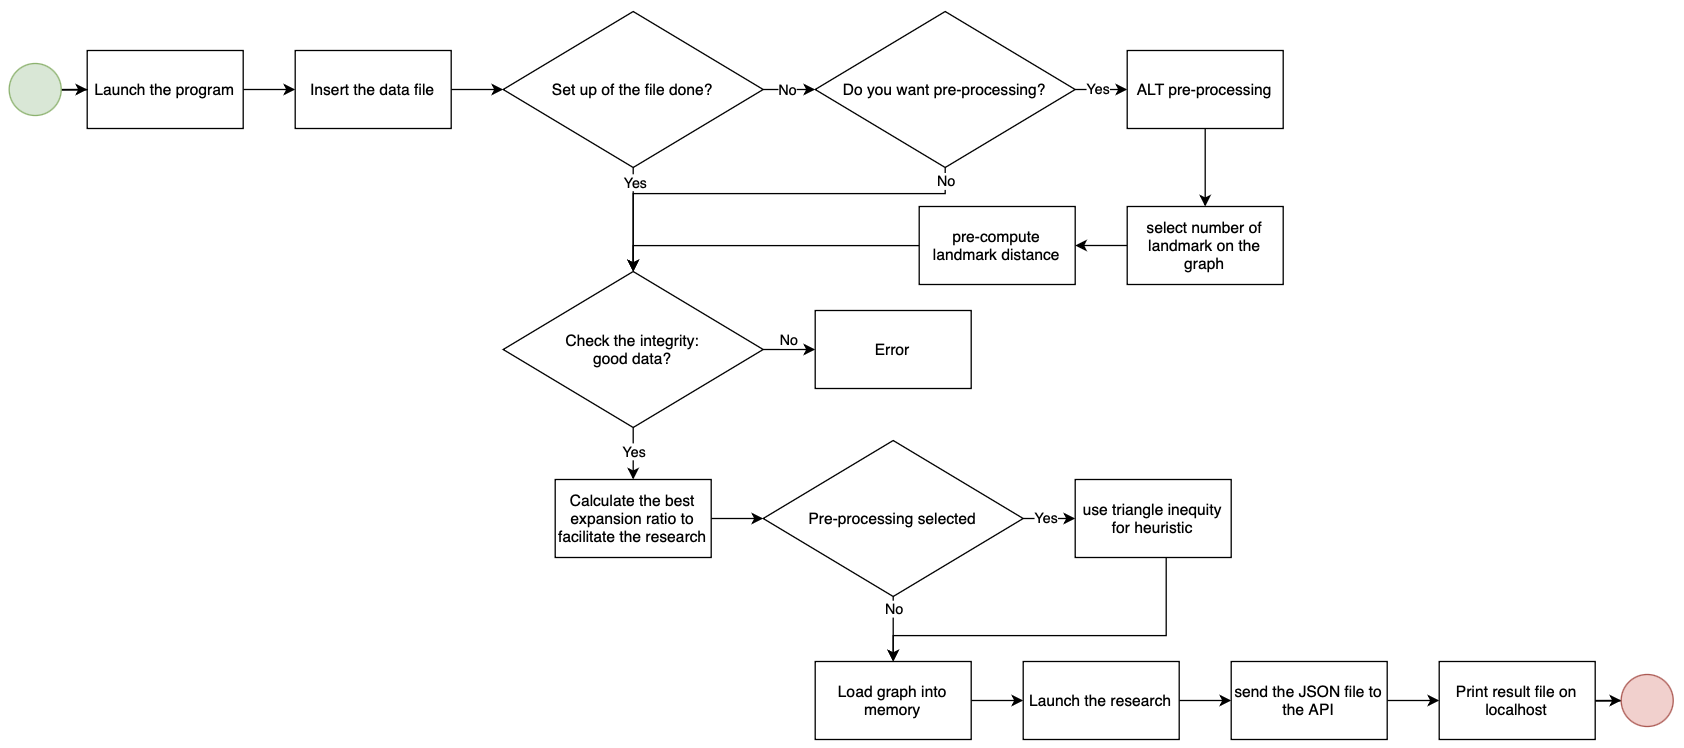
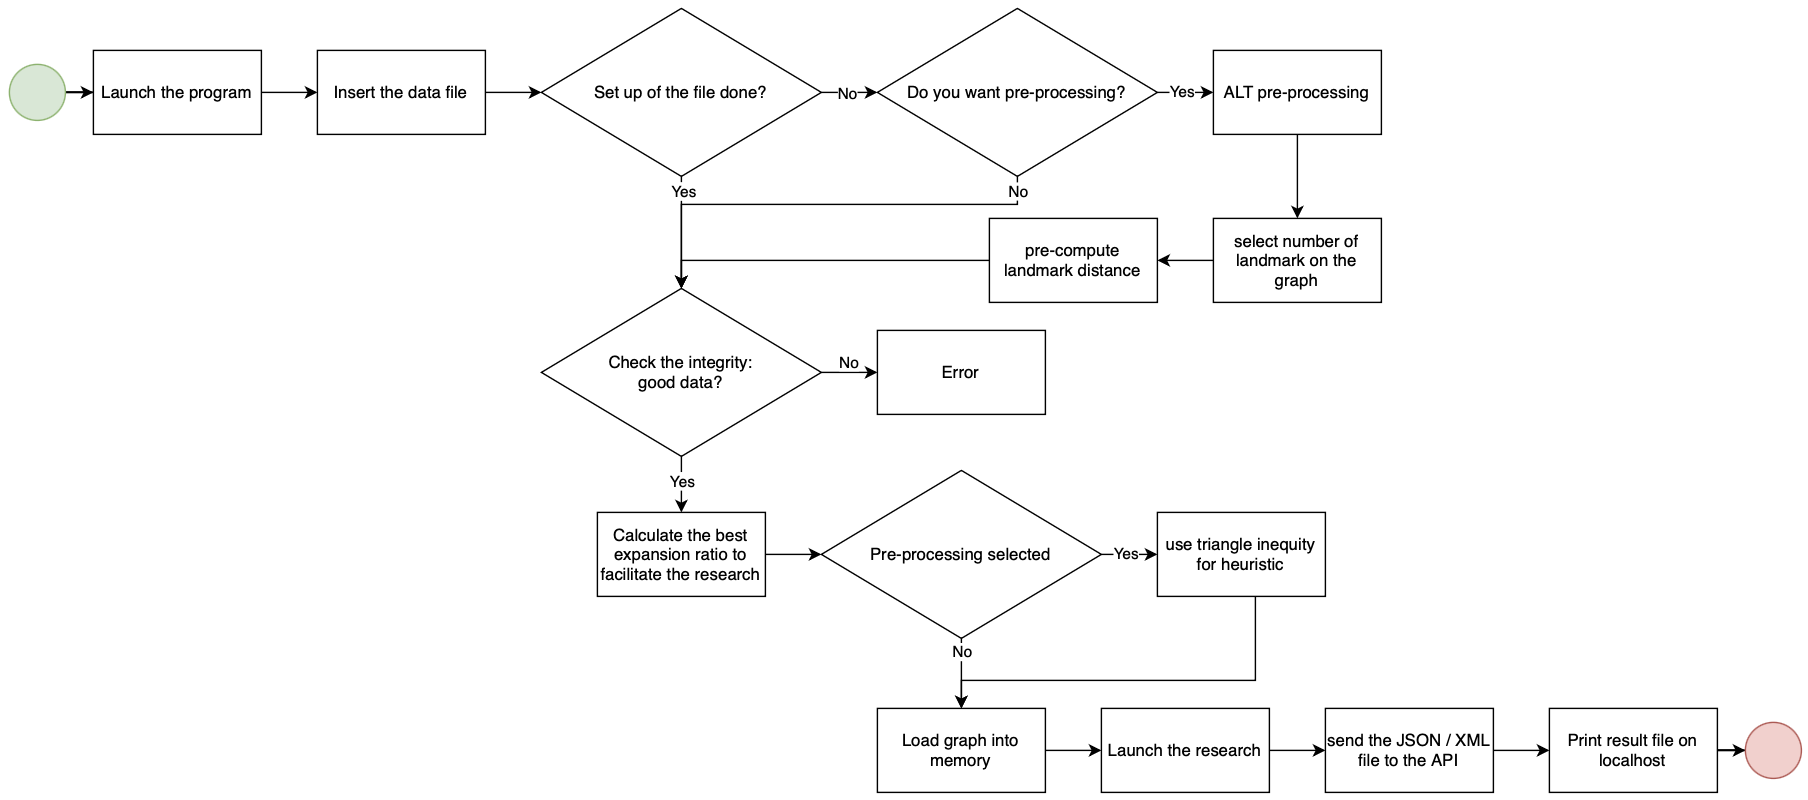
update technical
add information + correction issue #19

diff --git a/documents/TechnicalSpecifications.md b/documents/TechnicalSpecifications.md
@@ -11,21 +11,23 @@
     - [B. History](#b-history)
     - [C. Overview](#c-overview)
   - [II. Solution](#ii-solution)
-    - [A. Description](#a-description)
+    - [A. Requirements](#a-requirements)
+    - [B. Description](#b-description)
       - [1. Architectural Components](#1-architectural-components)
         - [a. Documents](#a-documents)
         - [b. API](#b-api)
         - [c. Data Management](#c-data-management)
+        - [d. Complexity](#d-complexity)
       - [2. Workflow Example](#2-workflow-example)
       - [3. Technology Stack](#3-technology-stack)
-    - [B. How it works ?](#b-how-it-works-)
+    - [C. How it works ?](#c-how-it-works-)
       - [1. Includes](#1-includes)
       - [2. Integrity checking](#2-integrity-checking)
       - [3. Connectivity checking](#3-connectivity-checking)
       - [4. Graph](#4-graph)
       - [5. Research algorithm](#5-research-algorithm)
       - [6. API](#6-api)
-    - [C. Program architecture diagram](#c-program-architecture-diagram)
+    - [D. Program architecture diagram](#d-program-architecture-diagram)
   - [III. Quality Control](#iii-quality-control)
     - [A. Documentation and Reporting](#a-documentation-and-reporting)
     - [B. Development](#b-development)
@@ -33,6 +35,7 @@
     - [A. Technical constraints](#a-technical-constraints)
       - [1. Writing convention](#1-writing-convention)
       - [2. C++ coding convention](#2-c-coding-convention)
+      - [3. Hardware](#3-hardware)
     - [B. Cost estimation](#b-cost-estimation)
       - [1. Software](#1-software)
       - [2. Time \& Human](#2-time--human)
@@ -50,35 +53,47 @@
 ### A. Information
 
 | Document writer | Grégory PAGNOUX |
-|---|---|
+|-|-|
 | Issue date | 01/27/2025 |
 | Reviewer | Lucas MEGNAN |
-| review date | 01/20/2025 |
+| review date | 01/21/2025 |
 
 ### B. History
 
 | Version | Edits completed by | Date | Description of edit |
-|---|---|---|---|
+|:-:|---|---|---|
 | 1.1 | Grégory PAGNOUX | 01/06/2025 | Template, [Writing convention](#1-writing-convention), [Quality Control](#iii-quality-control) part A, [Success evaluation](#v-success-evaluation) |
 | 1.2 | Grégory PAGNOUX | 01/08/2025 | [Development](#b-development), [Software](#1-software), [Time & human](#2-time--human), [Overview](#c-overview), [Documents](#a-documents) |
 | 1.3 | Grégory PAGNOUX | 01/14/2025 | [Coding convention](#2-c-coding-convention) |
-| 1.4 | Grégory PAGNOUX | 01/16/2025 | [Description](#a-description), [Security](#c-security), [Accessibility](#d-accessibility), [Glossary](#glossary) |
-| 1.5 | Grégory PAGNOUX | 01/17/2025 | [API](#b-api), [Data Management](#c-data-management), [Workflow example](#2-workflow-example), [Technology stack](#3-technology-stack), [How it works](#b-how-it-works-), [Program architecture diagram](#c-program-architecture-diagram) |
-| 1.5 | Grégory PAGNOUX | 01/20/2025 | [How it work](#b-how-it-works-), [Glossary](#glossary) |
+| 1.4 | Grégory PAGNOUX | 01/16/2025 | [Description](#b-description), [Security](#c-security), [Accessibility](#d-accessibility), [Glossary](#glossary) |
+| 1.5 | Grégory PAGNOUX | 01/17/2025 | [API](#b-api), [Data Management](#c-data-management), [Workflow example](#2-workflow-example), [Technology stack](#3-technology-stack), [How it works](#c-how-it-works-), [Program architecture diagram](#d-program-architecture-diagram) |
+| 1.5 | Grégory PAGNOUX | 01/20/2025 | [How it works](#c-how-it-works-), [Glossary](#glossary) |
+| 2.1 | Grégory PAGNOUX | 01/21/2025 | [Requirements](#a-requirements), [Hardware](#3-hardware), [Accessibility](#d-accessibility), [Technology stack](#3-technology-stack), [API](#b-api), [Complexity](#d-complexity), Correction issue #19 |
 
 ### C. Overview
 
-SmashThePath aim to make travel easier with faster pathing using the language C++[^1] and the software Visual Studio Code (VSC)[^2]. The users can use this to gain time and travel more effectivilly and easily across the United States (the CSV[^3] file used to develop the product is the USA's map).
+SmashThePath aim to make travel easier with faster pathing using an API, developed in the C++[^1] language and the software Visual Studio (VS)[^2]. The users can use this to gain time and travel more effectivilly and easily across the United States (the CSV[^3] file used to develop the product is the USA's map).
 
 This project is an oppurtunity to dive into the very famous laguage C++.
 Our main goal is to make a very easy and faster way to travel with an API[^4].
 
 ## II. Solution
 
-### A. Description
+### A. Requirements
+
+| Functional | Non-functional |
+|-|-|
+| Node and Path Management | Programming Language |
+| Fastest Path Calculation | Performance |
+| REST API Specification | Scalability |
+|  | REST API Accessibility |
+|  | Data Format Compatibility |
+|  | Reliability |
+
+### B. Description
 
 To complete this project, we need to create an API that manage Nodes and Paths between them, calculate the quickest path from a point A to B, a compatibility with multiple data file type in input of the algorithm and send a response in JSON[^5] or XML[^6] format in 1 second maximum.
-The algorithm nee to propose one of the 10% best path and the REST API[^7] must run on an HTTP server[^8] accessible via localhost and support concurrent requests.
+The algorithm need to propose one of the 10% best path and the REST API[^7] must run on an HTTP server[^8] accessible via localhost and support concurrent requests.
 
 #### 1. Architectural Components
 
@@ -86,15 +101,22 @@ The algorithm nee to propose one of the 10% best path and the REST API[^7] must 
 
 ```txt
 📦 2024-2025-project-3-quickest-path-team-1
-└── 📁 beta
-|    └── 📝 a_star.cpp
-|    └── 📝 api.cpp
-|    └── 📝 connectivity.cpp
-|    └── 📝 incl.h
-|    └── 📝 integrity.cpp
-|    └── 📝 loader.cpp
-|    └── 📝 log.cpp
-|    └── 📝 main.cpp
+└── 📁 smashthepath
+|    └── 📝 Api.cpp
+|    └── 📝 Bu_pre.cpp
+|    └── 📝 Conf.cpp
+|    └── 📝 Connectivity.cpp
+|    └── 📝 Decl.h
+|    └── 📝 Helper.cpp
+|    └── 📝 Incl.h
+|    └── 📝 Integrity.cpp
+|    └── 📝 Json.hpp
+|    └── 📝 Loader.cpp
+|    └── 📝 Log.cpp
+|    └── 📝 Main.cpp
+|    └── 📝 Opti.cpp
+|    └── 📝 Perf.cpp
+|    └── 📝 Search.cpp
 └── 📁 documents
 |    └── 📁 images
 |    └── 📁 management
@@ -120,7 +142,11 @@ The algorithm nee to propose one of the 10% best path and the REST API[^7] must 
 
 ##### b. API
 
-The API will expose endpoints for interacting with the system's core functionalities. It will include:
+The API will expose endpoints for interacting with the system's core functionalities.
+
+![API diagram](images/APIDiagram.png)
+
+It will include:
 
 **Pathfinding Endpoint**:
 
@@ -131,63 +157,74 @@ The API will expose endpoints for interacting with the system's core functionali
   - Point requseted (A, B)
   - Total time (in ms)
   - Total node
-  - Itinirary [{node a, node b, time}, etc]
-- **Response Formats**: JSON
+  - Itinirary [node]
+- **Response Formats**: JSON, XML
+
+To communicate with the API, we use Insomnia[^9]
 
 **Error Handling**:
 
-- Return structured error responses (e.g., `400 Bad Request` for invalid input, `404 Not Found` for non-existent nodes).
+- Return structured error responses (e.g., `400 Bad Request` for invalid input, `404 Not Found` for non-existent nodes)
+
+*When the algorithm find a path, it return a code message: `200 Path Found`*
 
 **Performance Goals**:
 
-- Response times under 1 second for typical queries.
+- Response times under 1 second for typical queries
+- The path must be within the heuristic[^10] range of 10% of the best paths
 
 ##### c. Data Management
 
-This layer focuses on efficient data handling, ensuring scalability[^9] and compliance with privacy standards.
+This layer focuses on efficient data handling, ensuring scalability[^11] and compliance with privacy standards.
 
 **Local Data Storage**:
 
-- **Node and Path Data**: Stored locally in CSV format, such as `USA-roads.csv`.
-- **Temporary Cache**: Keeps heuristics data[^10] when you launch the program, i.e. give the answer directly if you search the same point to gain time.
+- **Node and Path Data**: Stored locally in CSV format, such as `USA-roads.csv`
+- **Temporary Cache**: Keeps heuristics data[^12] when you launch the program, i.e. give the answer directly if you search the same point to gain time
 
 **Data Import**:
 
-- Supports importing nodes and paths data directly from local CSV files.
+- Supports importing nodes and paths data directly from local CSV files
 
 **Security and Privacy Management**:
 
-- **Error Detection**: Handles malformed or missing data gracefully, logging issues for debugging.
-- **Data Validation**: Ensures imported data conforms to expected formats (integrity[^11], connectivity, etc).
+- **Error Detection**: Handles malformed or missing data gracefully, logging issues for debugging
+- **Data Validation**: Ensures imported data conforms to expected formats (integrity[^13], connectivity, etc)
+
+##### d. Complexity
+
+The goals to reach is a complexity[^14] of log(n) at least.
+
+![Complexity](images/complexity.png)
 
 #### 2. Workflow Example
 
 **Data Linking**:
 
-- When a user uploads a data file, the system processes the data to construct the node network by making a UGC[^12].
+- When a user uploads a data file, the system processes the data to construct the node network by making a UGC[^15]
 
 **Algorithm Execution**:
 
-- You need to pre-processing[^13] the algorithm to get more fast response time.
-- Upon initiating the algorithm, the system calculates the quickest path between the specified nodes.
+- You need to pre-processing[^16] the algorithm to get more fast response time
+- Upon initiating the algorithm, the system calculates the quickest path between the specified nodes
 
 **Result Display**:
 
-![JSON response file](images/responseJSON.png)
+![JSON response file](images/JSONresult.png)
 
 #### 3. Technology Stack
 
 **Frontend (UI)**:
 
-- Not required for this project; data is displayed in a text-based format listing all waypoints and distances.
+- Not required for this project. Data are displayed in a text-based format listing all waypoints and distances
 
 **Backend (Logic & Processing)**:
 
-- **Programming Language**: C++ for performance and memory efficiency.
-- **Libraries**: Utilize C++ standard libraries for file I/O, graph algorithms A*, and JSON serialization.
-- **API Framework**: Use an HTTP server library for REST API implementation.
+- **Programming Language**: C++ for performance and memory efficiency
+- **Libraries**: Utilize C++ standard libraries for file I/O, graph algorithms A*, and JSON serialization (unordered_set, unordered_map, imaip, limits, winsock2.h, ws2tcpip.h)
+- **API Framework**: Use an HTTP server library for REST API implementation
 
-### B. How it works ?
+### C. How it works ?
 
 #### 1. Includes
 
@@ -442,7 +479,7 @@ if (result != 0) {
 }
 ```
 
-*Initialize the Winsock library[^14].*
+*Initialize the Winsock library[^17].*
 
 ![-](https://raw.githubusercontent.com/andreasbm/readme/master/assets/lines/aqua.png)
 
@@ -456,7 +493,7 @@ if (listening_socket == INVALID_SOCKET) {
 }
 ```
 
-*Create a listening socket[^15] for the server to accept incoming connections.*
+*Create a listening socket[^18] for the server to accept incoming connections.*
 
 ![-](https://raw.githubusercontent.com/andreasbm/readme/master/assets/lines/aqua.png)
 
@@ -470,13 +507,7 @@ ss << R"({"status":{"message":"OK"},"response_time":)"
     << pres.total_time
     << R"(,"itinary":[)";
 for (size_t i = 0; i < pres.steps.size(); i++) {
-    ss << R"({"node_a":)"
-        << pres.steps[i].node_a
-        << R"(,"node_b":)"
-        << pres.steps[i].node_b
-        << R"(,"time":)"
-        << pres.steps[i].time
-        << "}";
+    ss << pres.steps[i].node_a
     if (i + 1 < pres.steps.size()) ss << ",";
 }
 ss << "]}}";
@@ -485,7 +516,7 @@ response_body = ss.str();
 
 *This is the template for the answer with all details of the path find on the tree.*
 
-### C. Program architecture diagram
+### D. Program architecture diagram
 
 ![Program Architecture Diagram](images/programArchitectureDiagram.png)
 
@@ -524,7 +555,7 @@ You can have also [Markdown convention](https://www.markdownguide.org/basic-synt
 
 #### 2. C++ coding convention
 
-The language used to develop the project is C++
+The language used to develop the project is C++.
 
 | Notation | How | Usage | Example |
 | :-: | :-: | :-: | :-: |
@@ -532,7 +563,7 @@ The language used to develop the project is C++
 | comment = ```/*paragraphe*/``` | start each line with two slashes and an uppercase letter and finish the comment by a period. | give more information of the code | <pre>```/*The following declaration creates a query.``` <br> ```It doesn't run the query.*/```</pre> |
 | snake_case | each words are separated by an underscore | name variable | variable_name |
 | camelCase | each words are concatenate and all words start by an uppercase except the first one | name functions | functionName |
-| Interface (suffix) | put the word "Interface" at the end | named interface | UserIterface |
+| Interface (suffix) | put the word "Interface" at the end | named interface | UserInterface |
 | Abstract (prefix) | put the word "Abstract" at the beginning | named abstract base classes | AbstractUser |
 | g_ (prefix) | add "g_" at the beginning separated by an underscore | named global variables | g_userCount |
 | s_ (prefix) | app "s_" at the beginning separated by an underscore | named static class variables | s_instance |
@@ -542,11 +573,25 @@ The language used to develop the project is C++
 
 *source : [Gromacs](https://manual.gromacs.org/5.1-current/dev-manual/naming.html#:~:text=would%20be%20better.-,C%2B%2B%20code)*
 
+#### 3. Hardware
+
+The hardware used to develop the project are computer. Their specifications are detailed below:
+
+- Apple MacBook Air M3 2024
+  - Apple M3
+  - 16 GB
+  - macOS Sequoia 15.1.1
+
+- Lenovo ThinkBook 14
+  - Intel Core i7-1255U
+  - 16 GB
+  - Windows 11 Pro 22H2
+
 ### B. Cost estimation
 
 #### 1. Software
 
-The software used to develop the project, we use Visual Studio and Visual Studio Code and the data file used is a CSV (but the alghorithm needs to be compatible with other types of data documents). Those development software are used on schoool or personnal Windows and MacOS. We need an internet connection given by the ALGOSUP's WIFI or personnal fiber for those who work at home.
+The software used to develop the project, we use Visual Studio and the data file used is a CSV (but the alghorithm needs to be compatible with other types of data documents). Those development software are used on schoool or personnal Windows and MacOS. We need an internet connection given by the ALGOSUP's WIFI or personnal fiber for those who work at home.
 
 #### 2. Time & Human
 
@@ -564,13 +609,16 @@ All infromation given to the algorithm are in local, the treatement and the pre-
 
 The product is developed for software people to simplify the way they make research quickly between informations linked.
 
+To run the program, all the process will be detailed in the [User Manual](UserManual.pdf)
+
 ## V. Success evaluation
 
 The program is scored according to the following criteria :
 
 - **C++ Source Code**: Including comments and clear documentation. The code has to be of your own creation, and you should not use libraries beside STL and what is required for the Web server.
-- **Time and Space Complexity**: Big O notation for the main algorithms.
-- **REST API Implementation**: Demonstrating the ability to handle multiple formats (XML and JSON).
+- **Time and Space Complexity**: Big-O notation for the main algorithms.
+- Response send in 1 second maximum.
+- **REST API Implementation**: Demonstrating the ability to handle multiple formats (JSON / XML).
 - **Test Suite**: Tests to validate correctness, performance, and compliance with the 10% approximation rule.
 - **Data Validation Tool**: A utility to verify the integrity of the provided CSV file.
 
@@ -582,8 +630,8 @@ The program is scored according to the following criteria :
 Created by Bjarne Stroustrup in 1980, C++ is one of the most widely used compiled programming languages for applications, thanks to its high performance and compatibility with the C language.
 It allows programming under multiple paradigms (a way of approaching computer programming and formulating solutions to problems and their formalisation in an appropriate programming language), including procedural programming, object-oriented programming and generic programming.
 
-[^2]: [VSC](https://code.visualstudio.com)
-Visual Studio Code is a code editor created in 2015 by Microsoft that is compatible with all computers and allows you to develop any software, algorithm, application, etc. Its many applications allow you to use all possible languages and are fully customisable. The tracking and history of modifications makes it very practical and easy to use.
+[^2]: [VS](https://visualstudio.microsoft.com/fr/)
+Visual Studio is a code editor created in 1997 by Microsoft that is compatible with all computers and allows you to develop any software, algorithm, application, etc. Its many applications allow you to use all possible languages and are fully customisable. The tracking and history of modifications makes it very practical and easy to use.
 
 [^3]: [CSV](https://fr.wikipedia.org/wiki/Comma-separated_values#:~:text=Comma%2Dseparated%20values%2C%20connu%20sous,valeurs%20séparées%20par%20des%20virgules.)
 Comma-Separated Value is an open text format representing tabular data in the form of comma-separated values.
@@ -606,23 +654,32 @@ Also called RESTful API, is an API designed in the REST (Representational State 
 [^8]: [HTTP server](https://fr.wikipedia.org/wiki/Serveur_web)
 A web server is either web resource service software (HTTP server) or a computer server (computer) that responds to requests from the World Wide Web on a public (Internet) or private (intranet)1,2,3 network, mainly using the HTTP protocol.
 
-[^9]: [Scalability](https://dictionary.cambridge.org/dictionary/english/scalability)
+[^9]: [Insomnia](https://insomnia.rest)
+Kong Insomnia is a collaborative open source API development platform that makes it easy to build high-quality APIs, without the bloat and clutter of other tools. This tool has a multi-protocol support and a Git syncronisation.
+
+[^10]: [heuristic](https://en.wikipedia.org/wiki/Heuristic)
+It's any approach to problem solving that employs a pragmatic method that is not fully optimized, perfected, or rationalized, but is nevertheless "good enough" as an approximation or attribute substitution.
+
+[^11]: [Scalability](https://dictionary.cambridge.org/dictionary/english/scalability)
 The ability of a system to grow larger.
 
-[^10]: [Heuristics data](https://en.wikipedia.org/wiki/Heuristic_(computer_science))
+[^12]: [Heuristics data](https://en.wikipedia.org/wiki/Heuristic_(computer_science))
 In mathematical optimization and computer science, heuristic is a technique designed for problem solving more quickly when classic methods are too slow for finding an exact or approximate solution, or when classic methods fail to find any exact solution in a search space. This is achieved by trading optimality, completeness, accuracy, or precision for speed. In a way, it can be considered a shortcut.
 
-[^11]: [Integrity](https://dictionary.cambridge.org/dictionary/english/integrity)
-The quality of being whole and complete
+[^13]: [Integrity](https://dictionary.cambridge.org/dictionary/english/integrity)
+The quality of being whole and complete.
 
-[^12]: [UCG](https://math.stackexchange.com/questions/1029073/a-cycle-in-an-undirected-graph#:~:text=A%20cycle%20is%20a%20simple,of%20length%20at%20least%203.)
+[^14]: [complexity](https://devopedia.org/algorithmic-complexity)
+Algorithmic complexity is a measure of how long an algorithm would take to complete given an input of size n. the notation of the complexity is O(n) (big-O).
+
+[^15]: [UCG](https://math.stackexchange.com/questions/1029073/a-cycle-in-an-undirected-graph#:~:text=A%20cycle%20is%20a%20simple,of%20length%20at%20least%203.)
 A cycle is a simple path of length at least 1 which begins and ends at the same vertex. In an Undirected Graph Cycle, it must be of length at least 3.
 
-[^14]: [pre-processing](https://datascientest.com/guide-du-data-preprocessing)
+[^16]: [pre-processing](https://datascientest.com/guide-du-data-preprocessing)
 pre-processing is used to check that no information is missing for the programme to run smoothly and obtain a conclusive result. It allows calculations to be set up beforehand to improve performance.
 
-[^14]: [Winsock library](https://fr.wikipedia.org/wiki/Winsock#:~:text=Winsock%20(WINdows%20SOCKet)%20est%20une,sur%20des%20réseaux%20TCP%2FIP.)
+[^17]: [Winsock library](https://fr.wikipedia.org/wiki/Winsock#:~:text=Winsock%20(WINdows%20SOCKet)%20est%20une,sur%20des%20réseaux%20TCP%2FIP.)
 It's a software library for Windows designed to implement a programming interface inspired by Berkeley sockets
 
-[^15]: [socket](https://learn.microsoft.com/fr-fr/dotnet/api/system.net.sockets.socket.listen?view=net-9.0)
+[^18]: [socket](https://learn.microsoft.com/fr-fr/dotnet/api/system.net.sockets.socket.listen?view=net-9.0)
 It's a method which allows a Socket connection-oriented user to listen for incoming connection attempts.
